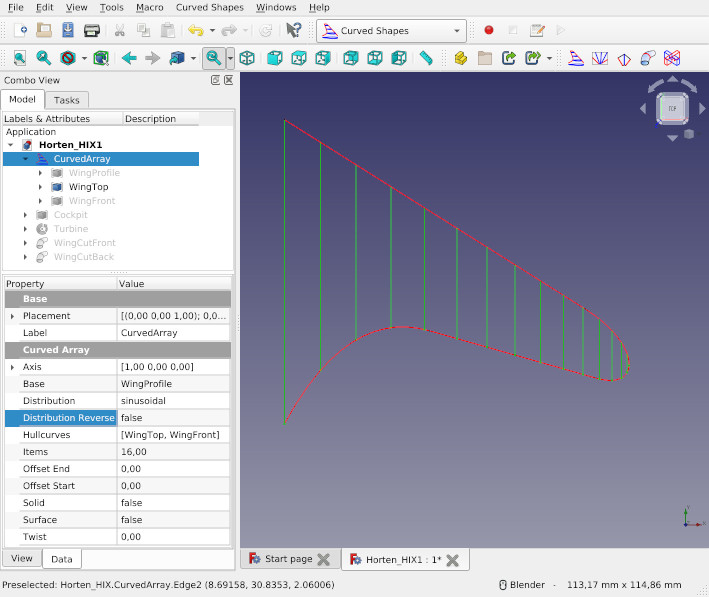
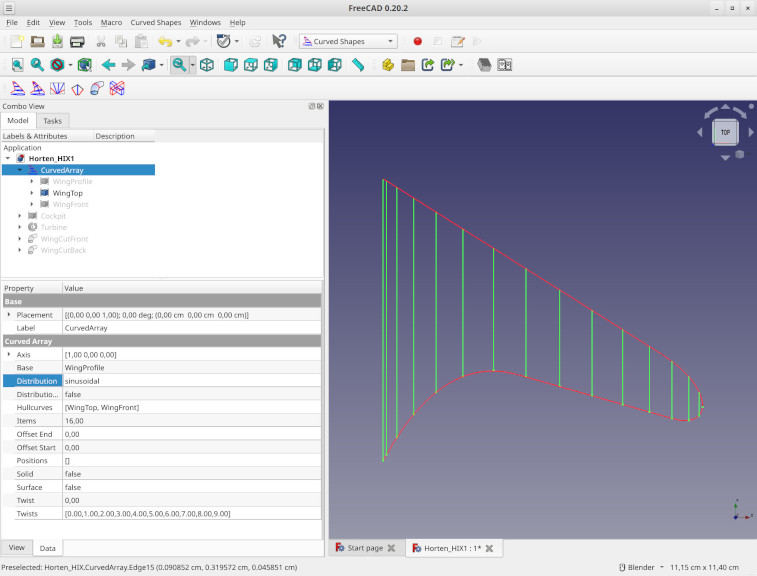
Distribution changed for sinusoidal und asinusoidal

diff --git a/CurvedSegment.py b/CurvedSegment.py
@@ -44,7 +44,7 @@ class CurvedSegmentWorker:
         fp.addProperty("App::PropertyBool", "TwistReverse","CurvedSegment",  "Reverses the rotation of one Shape").TwistReverse = TwistReverse
         fp.addProperty("App::PropertyEnumeration", "Distribution", "CurvedSegment",  "Algorithm for distance between elements")
         fp.addProperty("App::PropertyBool", "DistributionReverse", "CurvedSegment",  "Reverses direction of Distribution algorithm").DistributionReverse = DistributionReverse
-        fp.Distribution = ['linear', 'parabolic', 'x³', 'sinusoidal', 'elliptic']
+        fp.Distribution = ['linear', 'parabolic', 'x³', 'sinusoidal', 'asinusoidal', 'elliptic']
         fp.Distribution = Distribution
         self.doScaleXYZ = []
         self.doScaleXYZsum = [False, False, False]

diff --git a/CurvedArray.py b/CurvedArray.py
@@ -44,7 +44,7 @@ class CurvedArrayWorker:
         obj.addProperty("App::PropertyBool", "Solid","CurvedArray",  "Make a solid").Solid = Solid
         obj.addProperty("App::PropertyEnumeration", "Distribution", "CurvedArray",  "Algorithm for distance between elements")
         obj.addProperty("App::PropertyBool", "DistributionReverse", "CurvedArray",  "Reverses direction of Distribution algorithm").DistributionReverse = DistributionReverse
-        obj.Distribution = ['linear', 'parabolic', 'x³', 'sinusoidal', 'elliptic']
+        obj.Distribution = ['linear', 'parabolic', 'x³', 'sinusoidal', 'asinusoidal', 'elliptic']
         obj.Distribution = Distribution
         self.extract = extract
         self.doScaleXYZ = []

diff --git a/Horten_HIX.py b/Horten_HIX.py
@@ -157,7 +157,8 @@ def draw_HortenHIX():
                                              Twist=-twist,
                                              Surface=True,
                                              Solid=True,
-                                             Distribution = 'sinusoidal') 
+                                             Distribution = 'parabolic',
+                                             DistributionReverse=True) 
     
     
     WingSurface.Label = "WingSurface"

diff --git a/CurvedShapes.py b/CurvedShapes.py
@@ -255,8 +255,11 @@ def distribute(x, distribution, reverse = False):
         d = x*x*x
     
     if distribution == 'sinusoidal':
-        d = math.sin(x * math.pi / 2)
+        d = (math.cos(x * math.pi) + 1) / 2
     
+    if distribution == 'asinusoidal':
+        d = math.acos(x * 2 - 1) / math.pi
+        
     if distribution == 'elliptic':
         d = math.sqrt(1 - x*x)
     

diff --git a/README.md b/README.md
@@ -47,7 +47,7 @@ The first curve that you select for CurvedArray creation will be the item that i
 - Twists: Array of rotation angles for each rib. If empty, parameter Twist is used.
 - Surface: make a surface over the array items
 - Solid: make a solid if Base is a closed shape
-- Distribution: Algorithm for distance between array elements. Default is 'linear'. Also selectable: parabolic (x²), x³, sinusoidal, elliptic
+- Distribution: Algorithm for distance between array elements. Default is 'linear'. Also selectable: parabolic (x²), x³, sinusoidal, asinusoidal, elliptic
 - DistributionReverse: Reverses the direction of the Distribution algorithm
 
 Distribution Linear  
@@ -62,6 +62,9 @@ Distribution x³
 Distribution sinusoidal  
 ![sinusoidal](Examples/CurvedArraySinus.jpg) 
    
+Distribution asinusoidal  
+![asinusoidal](Examples/CurvedArrayASinus.jpg) 
+
 Distribution elliptic  
 ![elliptic](Examples/CurvedArrayElliptic.jpg)  
 If you create a surface with the Curved Array, a different distribution may give you better results.

diff --git a/LIESMICH.md b/LIESMICH.md
@@ -40,7 +40,7 @@ Zuerst das Basisobjekt auswählen, danach die Hüllkurven. Dann ein Curved Array
 - Twist: (Winkel in Grad) Lässt die Array Elemente rotieren
 - Surface: Eine Oberfläche erstellen
 - Solid: Einen Festkörper erstellen (funktioniert nur, wenn Base eine geschlossene Form ist)
-- Distribution: Algorithmus zur Berechnung der Distanz zwischen den Elementen. Default ist 'linear'. Weitere Möglichkeiten: parabolic (x²), x³, sinusoidal, elliptic
+- Distribution: Algorithmus zur Berechnung der Distanz zwischen den Elementen. Default ist 'linear'. Weitere Möglichkeiten: parabolic (x²), x³, sinusoidal, asinusoidal, elliptic
 - DistributionReverse: Kehrt die Richtung des Distrubution Algorithmus um
 
 Distribution Linear  
@@ -55,6 +55,9 @@ Distribution x³
 Distribution sinusoidal  
 ![sinusoidal](Examples/CurvedArraySinus.jpg) 
    
+Distribution asinusoidal  
+![asinusoidal](Examples/CurvedArrayASinus.jpg) 
+
 Distribution elliptic  
 ![elliptic](Examples/CurvedArrayElliptic.jpg)  
 
